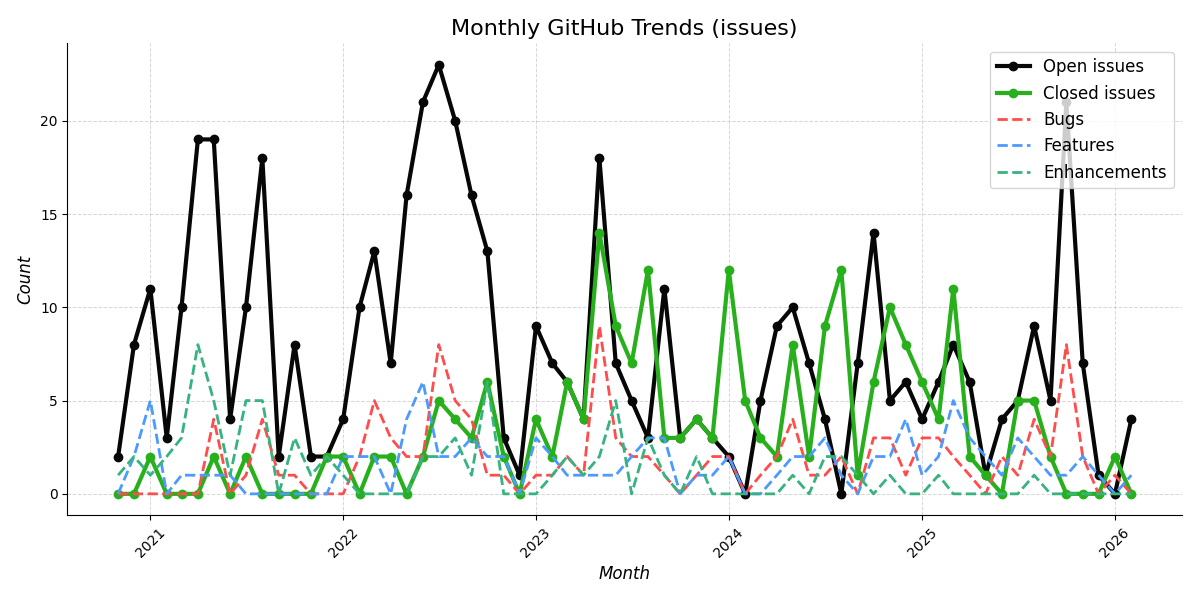
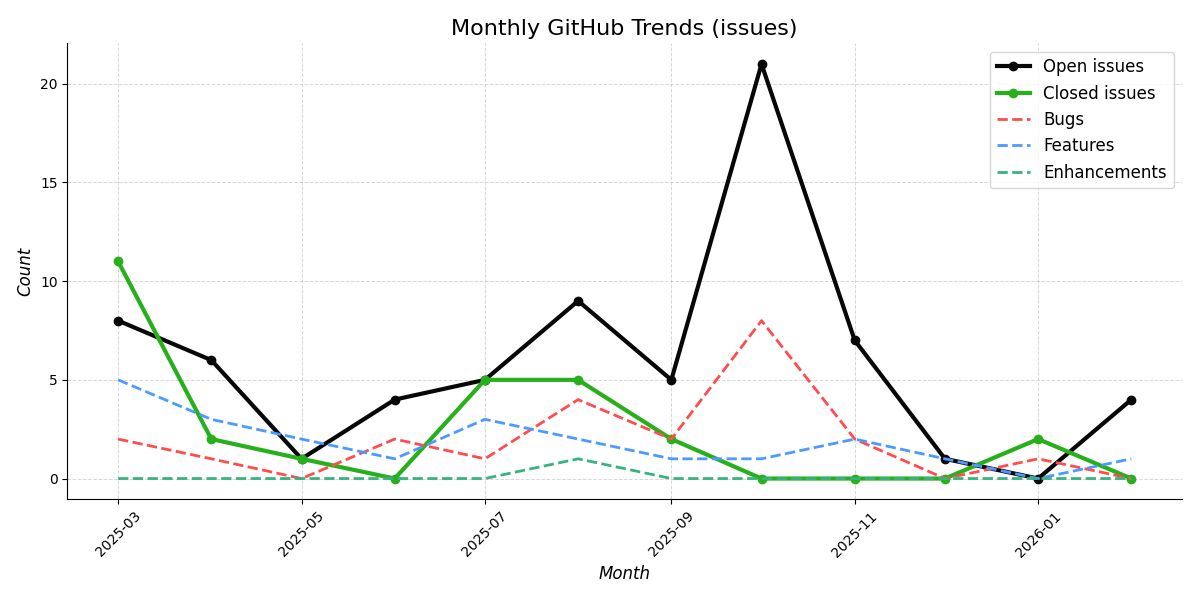
Add --start to generate-all, fix chart date range
- generate-all now accepts --start YYYY-MM (passed to plot.py reminder)
- Defaults to 12 months ago (matching original generate_all.sh behaviour)
- Reminder now prints the exact plot.py commands to run, including all args
- Regenerated data/images/ with --start 2025-03

diff --git a/src/commands/workflows.rs b/src/commands/workflows.rs
@@ -3,6 +3,7 @@
 use crate::commands::{build_db, fetch_discussions, fetch_issues, generate_summaries, purge};
 use crate::config::Config;
 use anyhow::Result;
+use chrono::{Datelike, Utc};
 use reqwest::blocking::Client;
 use std::path::Path;
 
@@ -27,22 +28,37 @@ pub fn fetch_all(env_files: &[String]) -> Result<()> {
 }
 
 /// Ports generate_all.sh: build-db + generate-summaries for each env/input pair.
-/// plot.py is kept in Python — this workflow prints a reminder to run it.
-pub fn generate_all(env_files: &[String], exclude_labels: Option<&str>) -> Result<()> {
+/// plot.py is kept in Python — this workflow prints the exact commands to run it.
+pub fn generate_all(env_files: &[String], exclude_labels: Option<&str>, start: Option<&str>) -> Result<()> {
     for env_file in env_files {
         println!("\n=== Generating for env: {env_file} ===");
         let config = Config::load(Some(env_file))?;
-        let input = format!(
-            "data/{}_{}_issues.json",
-            config.repo_owner, config.repo_name
-        );
+        let input = format!("data/{}_{}_issues.json", config.repo_owner, config.repo_name);
         let db = format!("out/db/{}_{}.db", config.repo_owner, config.repo_name);
 
         println!("Running with input: {input}");
         build_db::run(&input, &config)?;
         generate_summaries::run(&db, &config, exclude_labels)?;
     }
-    println!("\nNote: run plot.py manually to regenerate charts.");
+
+    // Compute default: first day of current month minus 12 months (matches generate_all.sh)
+    let default_start = {
+        let now = Utc::now();
+        let total_months = now.year() * 12 + now.month() as i32 - 13;
+        format!("{}-{:02}", total_months / 12, total_months % 12 + 1)
+    };
+    let start_arg = start.unwrap_or(&default_start);
+
+    println!("\nTo regenerate charts, run plot.py for each repo:");
+    for env_file in env_files {
+        let mut cmd = format!(
+            "PYTHONPATH=. python scripts/util/plot.py --env-file {env_file} --input-dir out/summaries --start {start_arg}"
+        );
+        if let Some(labels) = exclude_labels {
+            cmd.push_str(&format!(" --exclude-labels \"{labels}\""));
+        }
+        println!("  {cmd}");
+    }
     Ok(())
 }
 

diff --git a/src/main.rs b/src/main.rs
@@ -64,6 +64,8 @@ enum Command {
         env_file: Vec<String>,
         #[arg(long)]
         exclude_labels: Option<String>,
+        #[arg(long, help = "Only include data from this YYYY-MM date forward (passed to plot.py). Defaults to 12 months ago.")]
+        start: Option<String>,
     },
     /// Run all purge operations (replaces purge_all.sh)
     PurgeAll {
@@ -185,7 +187,8 @@ fn main() -> Result<()> {
         Command::GenerateAll {
             env_file,
             exclude_labels,
-        } => workflows::generate_all(&env_file, exclude_labels.as_deref()),
+            start,
+        } => workflows::generate_all(&env_file, exclude_labels.as_deref(), start.as_deref()),
         Command::PurgeAll {
             env_file,
             older_than,
